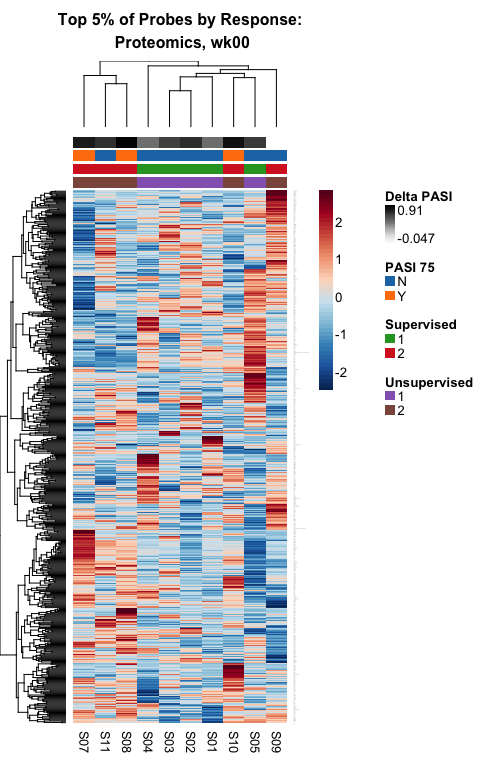
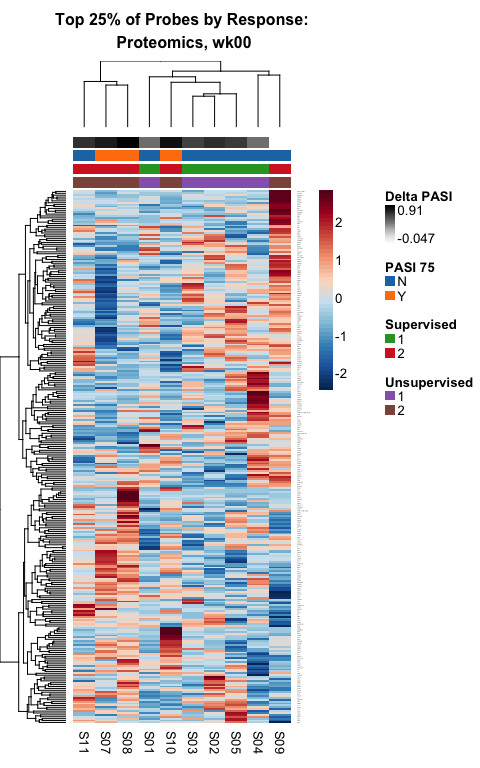
clust md touchup

diff --git a/Scripts/Clusters.md b/Scripts/Clusters.md
@@ -2,7 +2,7 @@ Clusters
 ================
 
 -   [Overview](#overview)
--   [Load, Prepate Data](#load-prepate-data)
+-   [Load, Prepare Data](#load-prepare-data)
 -   [Filtering](#filtering)
 -   [t-SNE](#t-sne)
 -   [Partitioning Around Medoids](#partitioning-around-medoids)
@@ -38,7 +38,7 @@ Once data have been modelled (see [Response]()), we use the outputs of our diffe
 
 Ideally, optimal cluster number *k* would be established via a resampling procedure such as consensus clustering ([Monti et al., 2003](https://pdfs.semanticscholar.org/1f29/553ecbaa388b6be3402bc7af28178f5e24ef.pdf)). However, given our limited sample size, we chose to fix *k* = 2 and test for cluster concordance with clinical outcomes. For simplicity's sake, we will work through a single example here. A complete analysis loop that executes all clustering steps in parallel may be found in this repository's accompanying Clusters.R script.
 
-Load, Prepate Data
+Load, Prepare Data
 ==================
 
 ``` r
@@ -65,8 +65,8 @@ Filtering
 This is where supervised and unsupervised approaches diverge. For the former, we simply take the top half of all probes as ranked by *p*-value of the relevant differential expression test.
 
 ``` r
-top <- topTable(fit, coef = 'wk00.Response', number = n_probes, sort.by = 'p')
-hits <- rownames(top)
+top <- topTable(fit, coef = 'wk00.Response', number = Inf, sort.by = 'p')
+hits <- rownames(top)[seq_len(n_probes)]
 dm_sup <- dist(t(mat[hits, ]))
 ```
 
@@ -91,7 +91,7 @@ t-SNE
 We now perform t-SNE on the distance matrix. This algorithm embeds a high-dimensional manifold in just two dimensions with a focus on preserving local structure, which makes it especially attractive for clustering omic data. We can visualise the projection using the `plot_tsne` function from the `bioplotr` package.
 
 ``` r
-plot_tsne(mat[rownames(top), ], group = list('PASI 75' = clin$PASI_75), 
+plot_tsne(mat[hits, ], group = list('PASI 75' = clin$PASI_75), 
           perplexity = 2, label = TRUE,
           title = 'Supervised Filtering: Proteomics, wk00')
 ```
@@ -156,7 +156,7 @@ mi <- mutinformation(supervised, unsupervised)
 
     ## [1] 1
 
-With *k* = 2, the maximal mutual information between groupings is 1 bit. Since these two clusterings are perfectly concordant, this result unsurprising.
+With *k* = 2, the maximal mutual information between groupings is 1 bit. Since these two clusterings are perfectly concordant, this result is unsurprising.
 
 Heatmap
 =======
@@ -165,7 +165,9 @@ These cluster assignments can be visualised along with clinical information as a
 
 ``` r
 # Trim matrix
-mat <- mat[rownames(top), ]
+top_quarter <- round(0.25 * nrow(mat)) 
+hits <- rownames(top)[seq_len(top_quarter)]
+mat <- mat[hits, ]
 
 # Prepare colour palettes
 rb <- colorRampPalette(rev(brewer.pal(10, 'RdBu')))(n = 256)
@@ -175,7 +177,7 @@ cols <- list(greys, d3[1:2], d3[3:4], d3[5:6])
 
 # Build heatmap
 aheatmap(mat, distfun = 'pearson', scale = 'row', col = rb, hclustfun = 'average',
-         main = paste0('Top 5% of Probes by Response:\n Proteomics, wk00'),
+         main = paste0('Top 25% of Probes by Response:\n Proteomics, wk00'),
          annCol = list('Delta PASI' = clin$DeltaPASI,
                           'PASI 75' = clin$PASI_75,
                        'Supervised' = as.factor(supervised),
